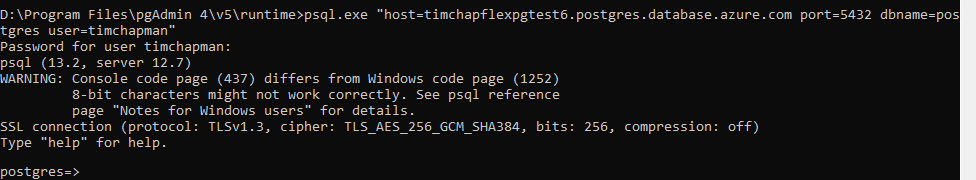
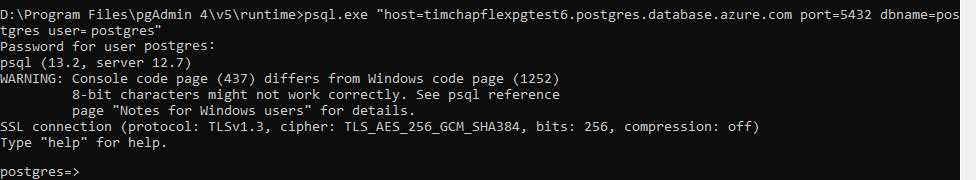
Updates for postgres user.

Changed region(s): [[0.123, 0.2222, 0.2459, 0.3056], [0.0922, 0.1389, 0.1844, 0.2222]]

diff --git a/README.md b/README.md
@@ -8,7 +8,15 @@ This project restores the SQL Server AdventureWorks 2016 database backup convert
 The output will look similar to this:  
 ![Fully Qualified Server Name.](media/1b-ServerName.JPG 'Server Name')
 
-## 2.  Create the AdventureWorks database on the Azure Database for PostgreSQL Flexible Server
+**I highly recommend to create the server using the postgres user as the admin user account.  The AdventureWorks backup was created with the postgres user owning all objects and will error if the restore occurs under a different account.** 
+
+## 2.  Enable the necessary PostgreSQL extensions
+1.  Navigate to the 'Server Parameters' section for the Azure Database for PostgreSQL Flexible Server.
+2.  Find the azure.extensions option from the Server parameters list and enable the 'TABLEFUNC' and 'UUID-OSSP' extensions.  The AdventureWorks database uses these features and the database restore will error if these extensions are not enabled.  
+3.  Click the Save option to enable these extensions on the server. 
+![Create Extensions.](media/1c-Extensions.JPG 'PostgreSQL Extensions')
+
+## 3.  Create the AdventureWorks database on the Azure Database for PostgreSQL Flexible Server
 1.  Download and install PGAdmin:  https://www.pgadmin.org/download/
 2.  Navigate to where PGAdmin is installed (the location of D:\Program Files\pgAdmin 4\v5\runtime on this test machine) and open a Command Prompt.
 3.  Execute the following command to connect to the PostgreSQL Flexible Server.  Be sure to use the Fully Qualified Name of your server and to enter your Password when prompted.  
@@ -24,7 +32,7 @@ CREATE DATABASE adventureworks;
 Which will have output similar to the following:
 ![Create Database.](media/2b-CreateDatabase.JPG 'Create Database')
 
-## 3.  Restore the AdventureWorks database on the Azure Database for PostgreSQL Flexible Server
+## 4.  Restore the AdventureWorks database on the Azure Database for PostgreSQL Flexible Server
 1.  Execute the pg_restore below.  Be sure to use the Fully Qualified Name of your server and the location of where you've cloned this repo.
 ```
 pg_restore -h timchapflexpgtest6.postgres.database.azure.com -U postgres  -d adventureworks D:/GitHub/postgresql-adventureworks/AdventureWorksPG.gz 
@@ -32,7 +40,7 @@ pg_restore -h timchapflexpgtest6.postgres.database.azure.com -U postgres  -d adv
 The output should look similar to the following.  **Note:  This script returns 2 Azure extension related errors.  These can be safely ignored.**
 ![Restore Database.](media/3a-RestoreDatabase.JPG 'Restore Database')
 
-## 4.  Log into the AdventureWorks database via pgAdmin
+## 5.  Log into the AdventureWorks database via pgAdmin
 1.  Open pgAdmin.  You may need to set up a password if this is your first time using it.
 2.  Under Browser, right click and choose Create-->Server Group. Give the Server Group a name and then Choose Save. Mine is named Flexible.
 3.  Enter the name of the Azure Database for PostgreSQL Flexible Server along with the username you chose when you created the Server.  The output will look similar to the following:  
